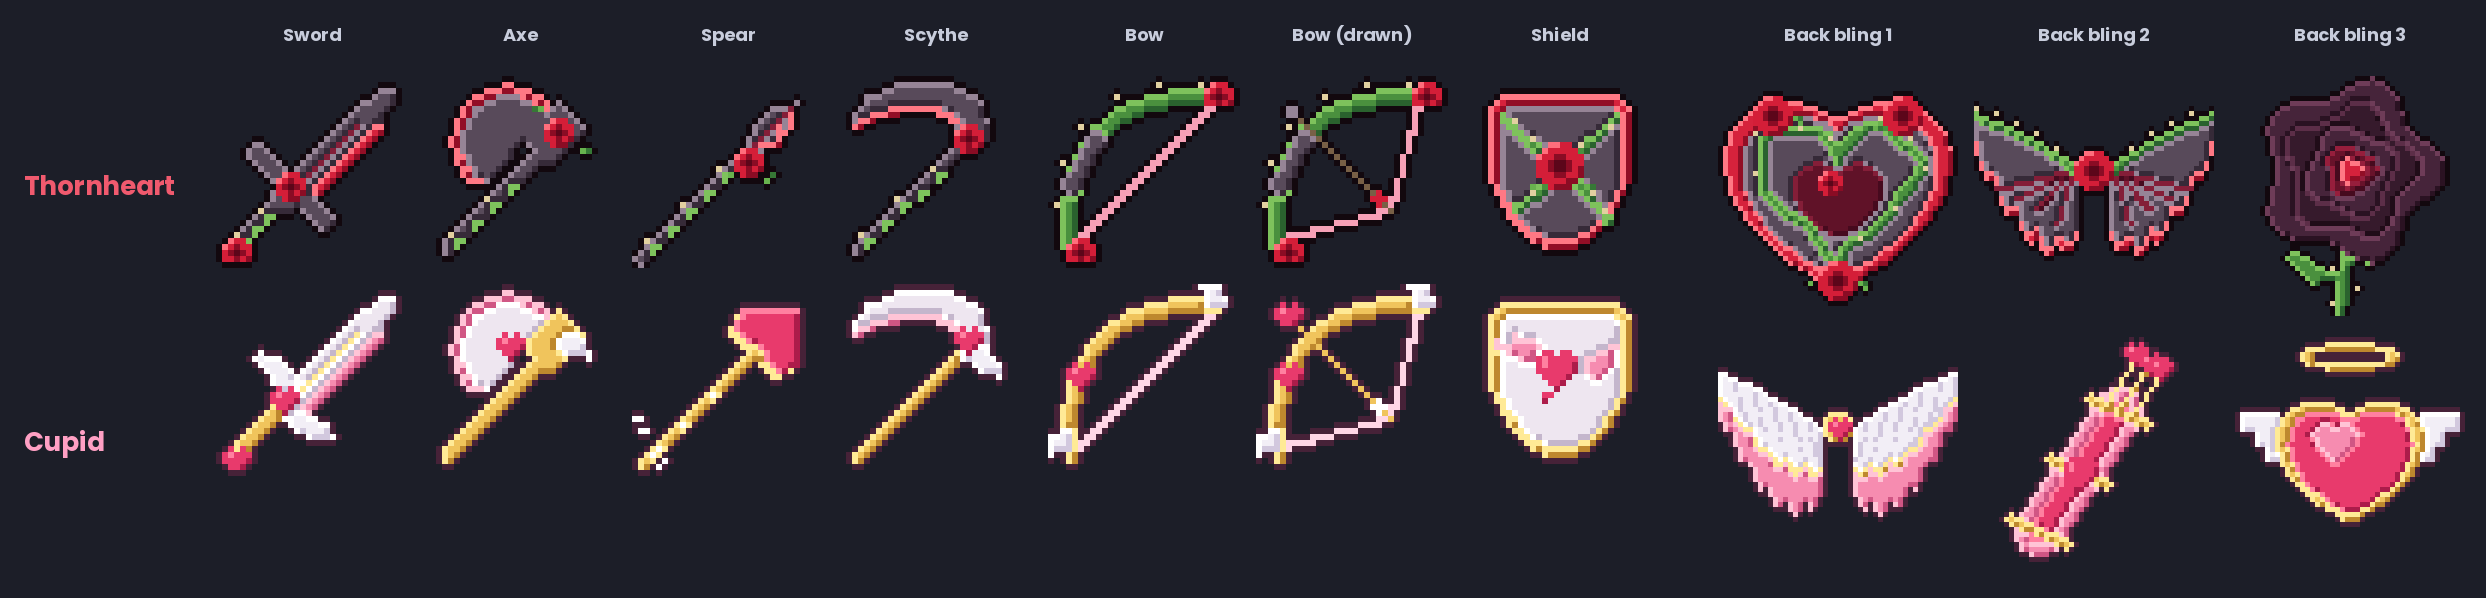
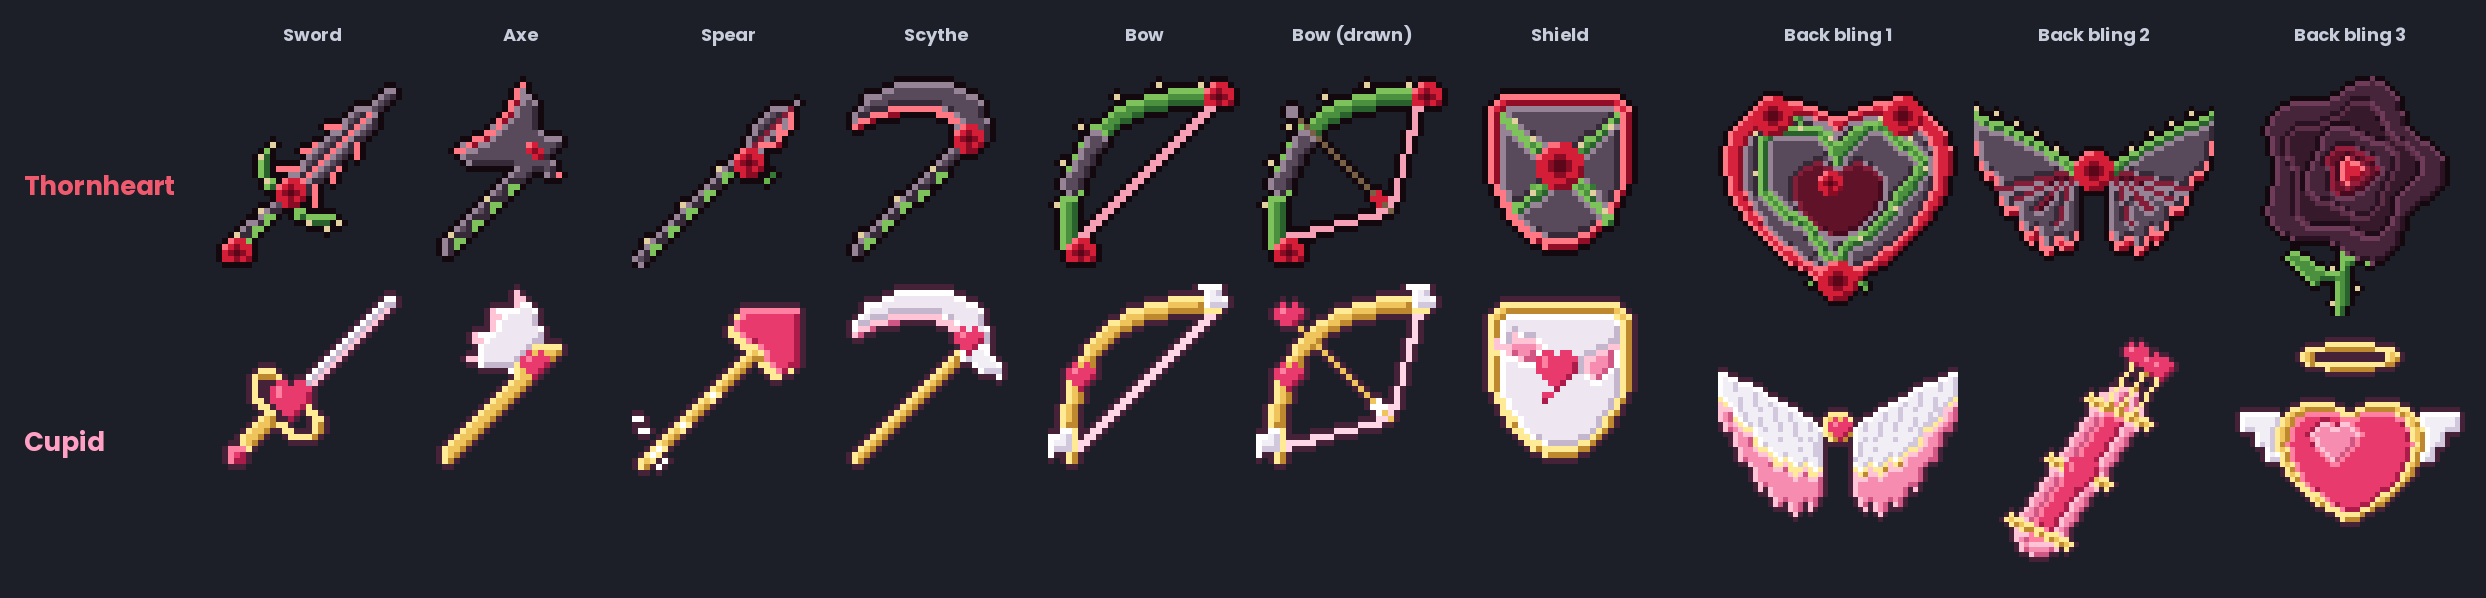
Concepts: unique Valentines swords, sharper axes
Claude-Session: https://claude.ai/code/session_01UtexKntMTy5LWKErqeLgdQ

Changed region(s): [[0.0929, 0.1204, 0.2478, 0.3913], [0.0619, 0.4816, 0.2478, 0.7826]]

diff --git a/resource-pack/concepts/weapons/thornheart.py b/resource-pack/concepts/weapons/thornheart.py
@@ -49,31 +49,43 @@ def vine_wrap(s, a, b, every=3):
 
 
 def sword():
+    """Thornblade: a black-steel blade whose edges grow sharp thorns, with a guard of curling thorny
+    branches and a rose at the centre."""
     s = base()
-    s.line((12, 20), (25, 7), 2.6, 'steel')
-    s.line((24, 8), (28.5, 3.5), 1.7, 'steel')
-    s.line((14.8, 21.2), (27, 9), 0.8, 'edge')            # crimson cutting edge
-    s.line((13.5, 18.5), (24, 8), 0.6, 'wine')            # fuller
-    s.line((7, 13), (18, 24), 1.6, 'steel')               # crossguard
-    s.line((4, 27.5), (10, 21.5), 1.3, 'steel')
+    s.line((12, 20), (25, 7), 2.2, 'steel')
+    s.line((24, 8), (29, 3), 1.3, 'steel')
+    # thorn barbs pointing back towards the hilt along both edges
+    for t in (0.22, 0.5, 0.78):
+        x, y = 12 + 13 * t, 20 - 13 * t
+        for side in (1, -1):
+            nx, ny = .707 * side, .707 * side
+            bx, by = x + nx * 2.2, y + ny * 2.2
+            s.line((bx, by), (bx + nx * 1.6 - .707 * 1.8, by + ny * 1.6 + .707 * 1.8), .5, 'edge')
+    s.line((13.5, 18.5), (25.5, 6.5), 0.55, 'edge')        # crimson core
+    # guard: two thorny branches curling up towards the blade
+    s.path([(12, 20), (9, 18), (7.5, 15), (8.5, 12.5)], .9, 'vine')
+    s.path([(12, 20), (14, 23), (17, 24.5), (19.5, 23.5)], .9, 'vine')
+    thorns(s, [(7, 13), (9, 11), (20, 24), (18, 25), (8, 17), (15, 24)])
+    s.line((4.5, 27), (10.5, 21.5), 1.2, 'steel')
     vine_wrap(s, (4, 27), (10, 21), 2)
-    s.stamp(10, 16, ROSE5, RKEY)                          # rose on the guard
-    s.stamp(1, 27, ROSE5[:4], RKEY)                       # rose pommel
+    s.stamp(10, 17, ROSE5, RKEY)
+    s.stamp(1, 27, ROSE5[:4], RKEY)
     return s
 
 
 def axe():
+    """Bearded black-steel axe with hooked, razor points top and bottom and a thorn spike on the back."""
     s = base()
-    s.line((4, 28.5), (20, 12.5), 1.3, 'steel')
-    vine_wrap(s, (5, 27), (17, 15), 3)
-    # broad crescent blade swinging out to the upper left of the head
-    s.where(lambda x, y: (x + .5 - 14) ** 2 + (y + .5 - 11) ** 2 <= 92 and (x + .5 - 21) ** 2 + (y + .5 - 15) ** 2 >= 40
-            and x + y <= 27 and y <= 17, 'steel')
-    s.where(lambda x, y: s.mat[y][x] == 'steel' and (x + .5 - 14) ** 2 + (y + .5 - 11) ** 2 >= 62
-            and x + y <= 26, 'edge')
-    s.poly([(17, 9), (23, 4), (28, 9), (22, 15), (18, 14)], 'steel')   # head block
-    s.stamp(20, 7, ROSE5, RKEY)
-    s.color(26, 12, LEAF); s.color(27, 12, LEAFD); s.color(19, 5, LEAF); s.color(18, 5, LEAFD)
+    s.line((4, 28.5), (21.5, 11), 1.2, 'steel')
+    vine_wrap(s, (5, 27), (16, 16), 3)
+    H = (18.5, 13.5)
+    blade = parts.local(H, [(-2.5, 1), (-9, 7.5), (-7.5, 10.5), (-2, 8.5), (2.5, 9), (7.5, 11), (6.5, 6.5), (3, 1)])
+    s.poly(blade, 'steel')
+    edge = parts.local(H, [(-8.5, 9.6), (-2, 7.8), (2.5, 8.2), (7, 10.2)])
+    s.path(edge, .6, 'edge')
+    s.poly(parts.local(H, [(-2, -1.2), (2.5, -1.2), (0.5, -6)]), 'steel')          # thorn spike on the back
+    s.put(int(parts.local(H, [(0.5, -5)])[0][0]), int(parts.local(H, [(0.5, -5)])[0][1]), 'edge')
+    s.stamp(17, 11, ROSE3, RKEY)
     return s
 
 

diff --git a/resource-pack/concepts/weapons/cupid.py b/resource-pack/concepts/weapons/cupid.py
@@ -49,28 +49,32 @@ def wing(s, root, direction, length, mat='feather', rows=3):
 
 
 def sword():
+    """Heartpiercer: a slim pearl rapier with a gold swept hilt whose cup guard is a pink heart."""
     s = base()
-    s.line((12, 20), (25, 7), 2.6, 'pearl')
-    s.line((24, 8), (28.5, 3.5), 1.7, 'pearl')
-    s.line((14.8, 21.2), (27, 9), 0.8, 'pink')                 # blush cutting edge
-    s.line((13.5, 18.5), (24, 8), 0.5, 'gold')                 # gold fuller
-    wing(s, (11, 18), (-1, -1.4), 7, rows=2)                    # winged crossguard
-    wing(s, (14, 21), (1.4, 1), 7, rows=2)
-    s.line((4.5, 27), (10, 21.5), 1.2, 'gold')
-    s.stamp(9, 17, HEART5, HKEY)
-    s.stamp(1, 27, HEART5[:4], HKEY)                           # heart pommel
+    s.line((12.5, 19.5), (29, 3), 1.1, 'pearl')
+    s.line((13.5, 19.5), (28.5, 4.5), 0.4, 'pink')
+    # swept gold hilt: rings curving round the grip
+    s.path([(13, 19), (10, 15), (7, 15), (6, 18), (9, 22)], .55, 'gold')
+    s.path([(13, 19), (17, 22), (17, 25), (14, 26), (10, 23)], .55, 'gold')
+    s.stamp(9, 16, HEART7, HKEY)                                # heart cup guard
+    s.line((4.5, 27), (9.5, 22), 1.1, 'gold')
+    s.disc((3.5, 28.5), 1.6, 'heart')
     return s
 
 
 def axe():
+    """Sharp pearl axe: one blade whose cutting edge ends in pointed feather tips (pink), gold haft
+    and a heart on the head."""
     s = base()
-    s.line((4, 28.5), (20, 12.5), 1.2, 'gold')
-    s.where(lambda x, y: (x + .5 - 14) ** 2 + (y + .5 - 11) ** 2 <= 92 and (x + .5 - 21) ** 2 + (y + .5 - 15) ** 2 >= 40
-            and x + y <= 27 and y <= 17, 'pearl')
-    s.where(lambda x, y: s.mat[y][x] == 'pearl' and (x + .5 - 14) ** 2 + (y + .5 - 11) ** 2 >= 62 and x + y <= 26, 'pink')
-    s.poly([(17, 9), (23, 4), (28, 9), (22, 15), (18, 14)], 'gold')
-    s.stamp(12, 8, HEART5, HKEY)                                # heart set in the blade
-    wing(s, (25, 8), (1, 1.6), 5, rows=2)
+    s.line((4, 28.5), (21.5, 11), 1.2, 'gold')
+    H = (18.5, 13.5)
+    tips = [(-8.5, 9.5), (-5.5, 8.2), (-3.5, 11.6), (-1, 9.2), (1.5, 12), (3.5, 9.2), (6.5, 11.2), (7, 6.5)]
+    s.poly(parts.local(H, [(-3, 1)] + tips + [(3.5, 1)]), 'pearl')
+    for (a1, o1), (a2, o2) in [((-5.5, 8.2), (-3.5, 11.6)), ((-1, 9.2), (1.5, 12)), ((3.5, 9.2), (6.5, 11.2))]:
+        s.poly(parts.local(H, [(a1, o1 - .3), (a2, o2), (a2 + .6, o2 - 2.2)]), 'pink')
+    s.poly(parts.local(H, [(-8.5, 9.5), (-6.5, 7.5), (-5.5, 8.2)]), 'pink')
+    s.poly(parts.local(H, [(-3.5, -1.5), (3.5, -1.5), (3.5, 2.5), (-3.5, 2.5)]), 'gold')
+    s.stamp(16, 11, HEART5, HKEY)
     return s
 
 

diff --git a/resource-pack/concepts/weapons/parts.py b/resource-pack/concepts/weapons/parts.py
@@ -97,3 +97,8 @@ def wing_shape(cx, side, root_y=22, span=21, rise=17, drop=13, scallops=5):
             return (u, (Y - top) / (bottom - top), bottom - Y < 2.2)
         return None
     return f
+
+
+def local(center, pts, along=(0.707, -0.707), out=(-0.707, -0.707)):
+    """points given as (distance along the haft, distance out from it) -> sprite coordinates."""
+    return [(center[0] + a * along[0] + o * out[0], center[1] + a * along[1] + o * out[1]) for a, o in pts]
